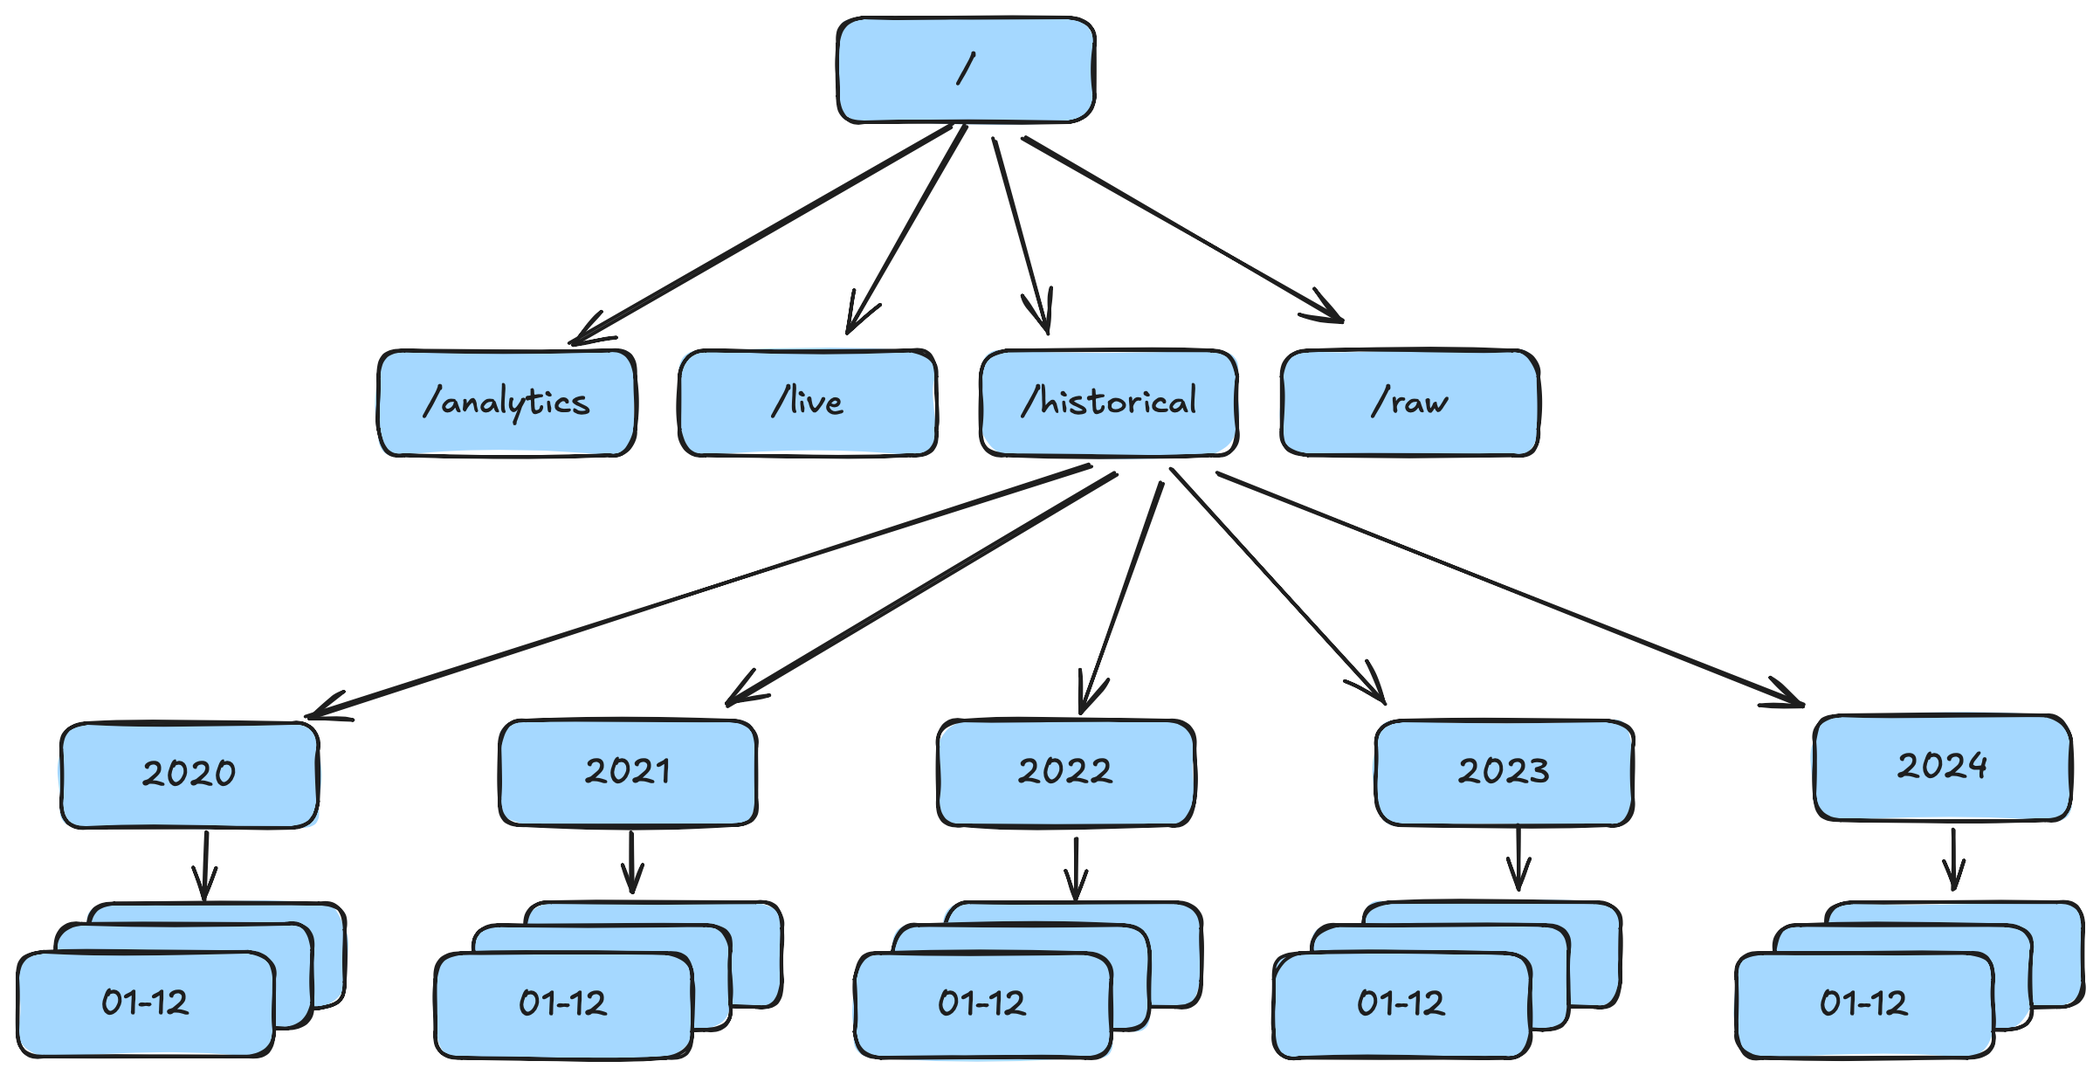
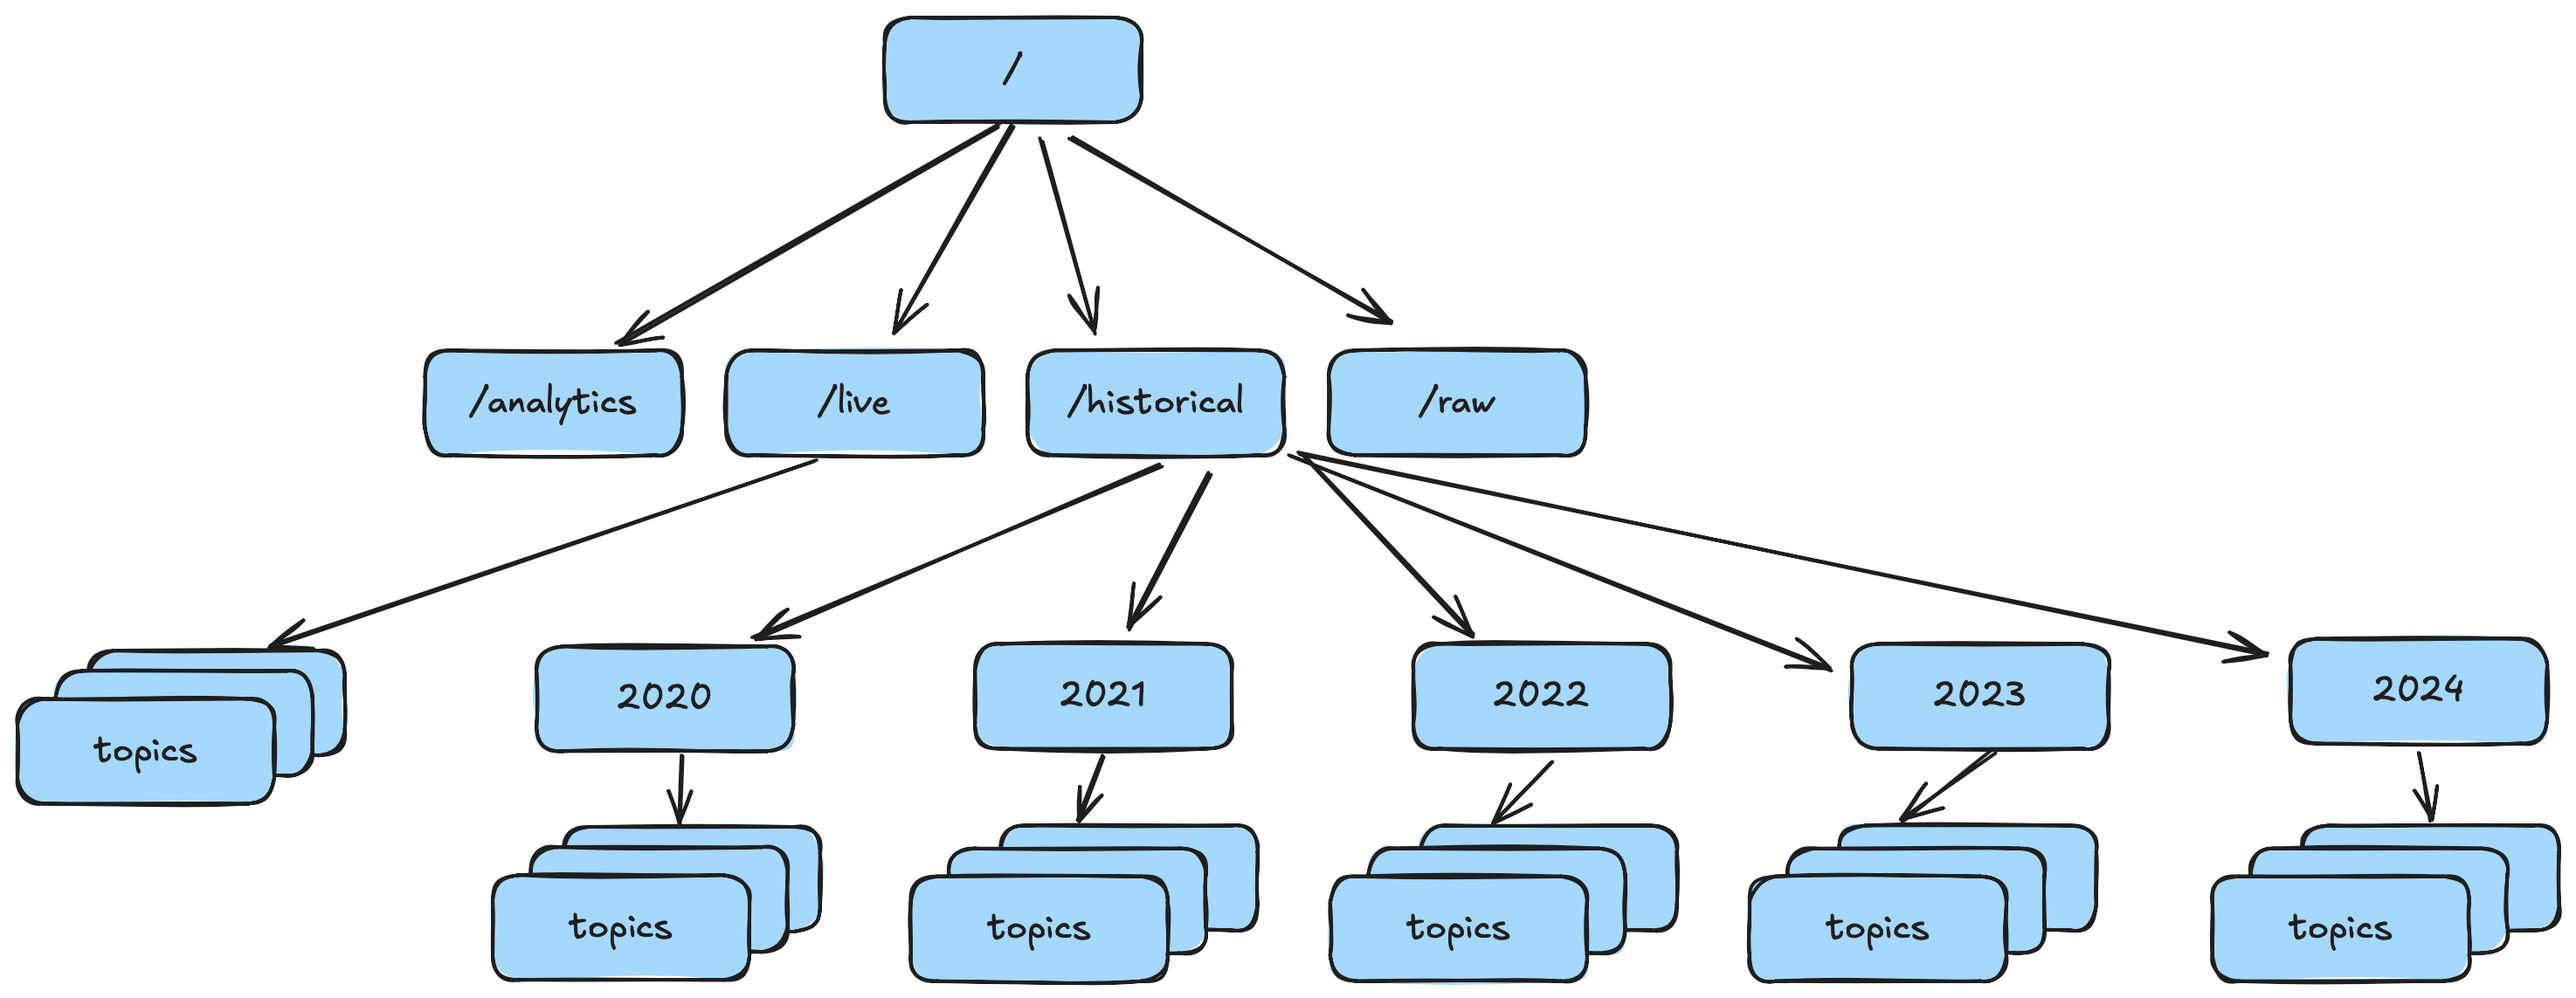
update hfds structure

diff --git a/Guides/HDFS_structure.md b/Guides/HDFS_structure.md
@@ -77,18 +77,18 @@ drwxr-xr-x   - root supergroup          0 /raw
 ```
 
 
-## Step 4. Creating Yearly and Monthly Subdirectories in `/historical`
+## Step 4. Creating Yearly and Topic Subdirectories in `/historical`
 
-To organize historical data by year and month, create a nested folder structure under `/historical` directly from the NameNode pod.
+To organize historical data by **year** and **topic**, create a nested folder structure under `/historical` directly from the NameNode pod.
 
 ### Create the Folder Structure
 
-Run the following script **directly in the terminal** to create one folder per year (2020–2024) and one subfolder per month (`01`–`12`) inside each year:
+Run the following script **directly in the terminal** to create one folder per year (2020–2024) and one subfolder per topic (`weather-wind`, `weather-temp`, `weather-sun`) inside each year:
 
 ```bash
 for year in {2020..2024}; do
-  for month in {01..12}; do
-    hdfs dfs -mkdir -p /historical/$year/$month
+  for topic in weather-wind weather-temp weather-sun; do
+    hdfs dfs -mkdir -p /historical/$year/$topic
   done
 done
 ```
@@ -96,10 +96,13 @@ done
 This command will create a structure similar to:
 
 ```
-/historical/2020/01
-/historical/2020/02
+/historical/2020/weather-wind
+/historical/2020/weather-temp
+/historical/2020/weather-sun
 ...
-/historical/2024/12
+/historical/2024/weather-wind
+/historical/2024/weather-temp
+/historical/2024/weather-sun
 ```
 
 ### Verify the Result
@@ -121,7 +124,7 @@ drwxr-xr-x   - root supergroup          0 /historical/2023
 drwxr-xr-x   - root supergroup          0 /historical/2024
 ```
 
-To confirm the monthly folders, list a specific year:
+To confirm the topic folders inside a year:
 
 ```bash
 hdfs dfs -ls /historical/2022
@@ -130,28 +133,80 @@ hdfs dfs -ls /historical/2022
 Expected output:
 
 ```
-Found 12 items
-drwxr-xr-x   - root supergroup          0 2025-11-04 15:18 /historical/2022/01
-drwxr-xr-x   - root supergroup          0 2025-11-04 15:18 /historical/2022/02
-drwxr-xr-x   - root supergroup          0 2025-11-04 15:18 /historical/2022/03
-drwxr-xr-x   - root supergroup          0 2025-11-04 15:18 /historical/2022/04
-drwxr-xr-x   - root supergroup          0 2025-11-04 15:18 /historical/2022/05
-drwxr-xr-x   - root supergroup          0 2025-11-04 15:18 /historical/2022/06
-drwxr-xr-x   - root supergroup          0 2025-11-04 15:18 /historical/2022/07
-drwxr-xr-x   - root supergroup          0 2025-11-04 15:18 /historical/2022/08
-drwxr-xr-x   - root supergroup          0 2025-11-04 15:19 /historical/2022/09
-drwxr-xr-x   - root supergroup          0 2025-11-04 15:19 /historical/2022/10
-drwxr-xr-x   - root supergroup          0 2025-11-04 15:19 /historical/2022/11
-drwxr-xr-x   - root supergroup          0 2025-11-04 15:19 /historical/2022/12
+Found 3 items
+drwxr-xr-x   - root supergroup          0 /historical/2022/weather-sun
+drwxr-xr-x   - root supergroup          0 /historical/2022/weather-temp
+drwxr-xr-x   - root supergroup          0 /historical/2022/weather-wind
+```
+
+Inside each topic folder, there will be 12 `avro` files representing monthly data. The name of each file will specify the month of the data it contains.
+
+## Step 5. Creating Topic Subdirectories in `/live`
+Similarly, create topic subdirectories under the `/live` directory for real-time data:
+
+```bash
+hdfs dfs -mkdir /live/weather-temp
+hdfs dfs -mkdir /live/weather-wind
+hdfs dfs -mkdir /live/weather-sun 
+```
+
+To verify:
+
+```bash
+hdfs dfs -ls /live
+```
+Expected output:
+
+```
+Found 3 items
+drwxr-xr-x   - root supergroup          0 2025-11-05 13:01 /live/weather-sun
+drwxr-xr-x   - root supergroup          0 2025-11-05 13:01 /live/weather-temp
+drwxr-xr-x   - root supergroup          0 2025-11-05 13:01 /live/weather-wind
 ```
 
 ## Final Structure Overview
 
-| Directory     | Purpose                                                                                                              |
-| ------------- | -------------------------------------------------------------------------------------------------------------------- |
-| `/raw`        | Stores raw ingested data (unprocessed weather, energy, or sensor files)                                              |
-| `/historical` | Stores historical weather, energy consumption, and pricing data, organized by year and month (`/historical/YYYY/MM`) |
-| `/live`       | Contains streaming weather data (temperature, wind speed, solar energy)                                              |
-| `/analytics`  | Stores processed and aggregated data for analysis and reporting                                                      |
+| Directory     | Purpose                                                                                   |
+| ------------- | ----------------------------------------------------------------------------------------- |
+| `/raw`        | Stores raw ingested data (unprocessed weather, energy, or sensor files)                   |
+| `/historical` | Stores historical weather data organized by year and topic (`/historical/YYYY/weather-*`) |
+| `/live`       | Contains real-time streaming weather data by topic (temperature, wind speed, solar energy)         |
+| `/analytics`  | Stores processed and aggregated data used for analytics, dashboards, or reporting         |
 
+
+## Example Folder Tree
+
+```text
+/
+├── raw
+├── historical
+│   ├── 2020
+│   │   ├── weather-wind
+│   │   ├── weather-temp
+│   │   └── weather-sun
+│   ├── 2021
+│   │   ├── weather-wind
+│   │   ├── weather-temp
+│   │   └── weather-sun
+│   ├── 2022
+│   │   ├── weather-wind
+│   │   ├── weather-temp
+│   │   └── weather-sun
+│   ├── 2023
+│   │   ├── weather-wind
+│   │   ├── weather-temp
+│   │   └── weather-sun
+│   └── 2024
+│       ├── weather-wind
+│       ├── weather-temp
+│       └── weather-sun
+├── live
+│   ├── weather-wind
+│   ├── weather-temp
+│   └── weather-sun
+└── analytics
+```                                                  
 ![diagram](./assets/HDFS_strucutre_diagram.png)
+
+
+
